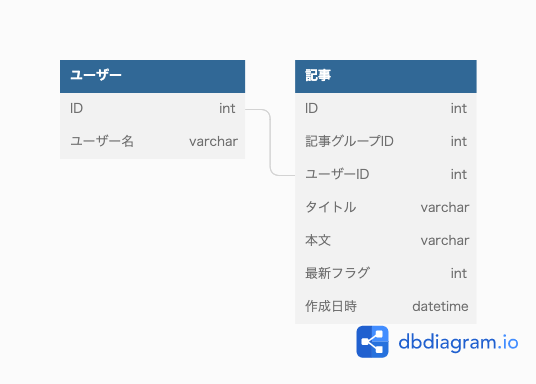
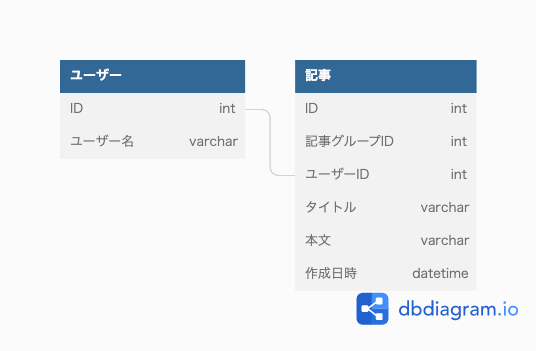
DBモデリング5 最新フラグ削除 記事テーブルから作成日時削除

diff --git a/DB/05/work/ER_課題1.md b/DB/05/work/ER_課題1.md
@@ -6,7 +6,6 @@ Table "ユーザー" as u {
 Table "記事" as b {
   "ID" int
   "ユーザーID" int
-  "作成日時" datetime
 }
 
 Table "記事履歴" as bh {
@@ -14,7 +13,6 @@ Table "記事履歴" as bh {
   "記事ID" int
   "タイトル" varchar
   "本文" datetime
-  "最新フラグ" int
   "更新日時" datetime
 }
 

diff --git a/DB/05/work/ER_課題2.md b/DB/05/work/ER_課題2.md
@@ -9,7 +9,6 @@ Table "記事" as b {
   "ユーザーID" int
   "タイトル" varchar
   "本文" varchar
-  "最新フラグ" int
   "作成日時" datetime
 }
 
